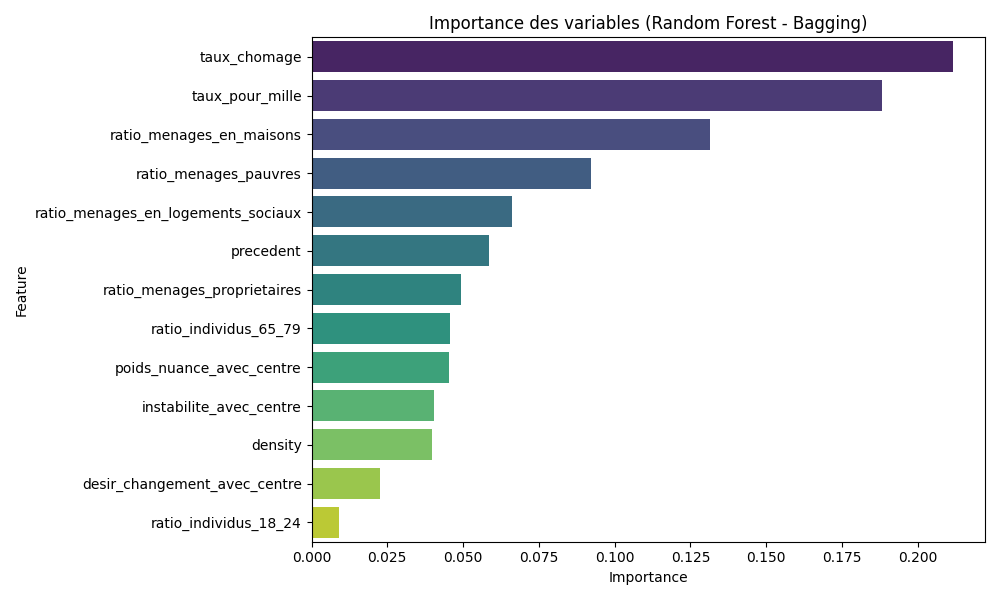
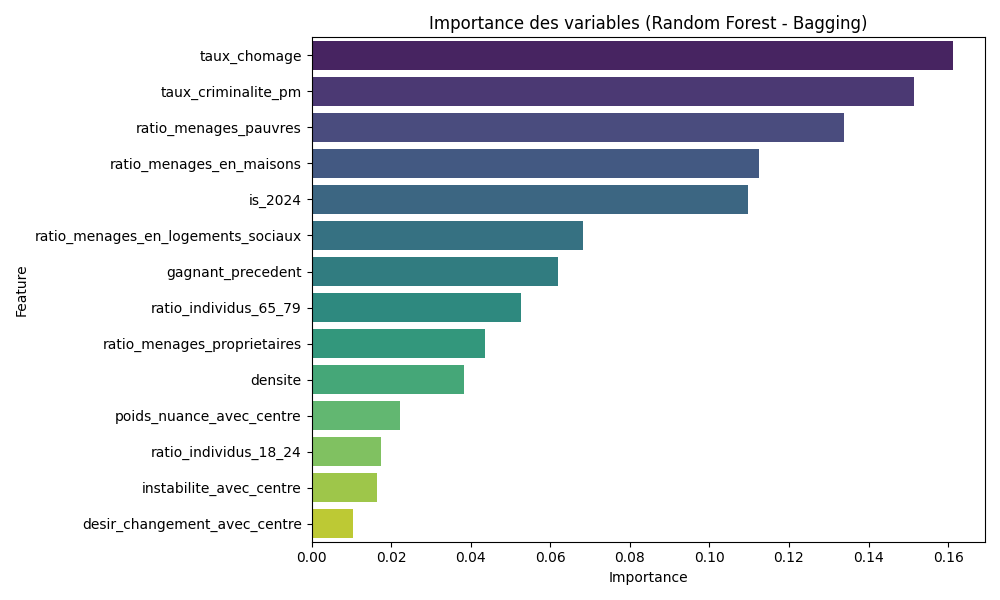
ajoute visualisation matrices de confusion

diff --git a/machine_learning/random_forest/encodage_avec_centre/bagging/previous_instability_criminality_unemployment_density_filosofi/previous_instability_criminality_unemployment_density_filosofi.py b/machine_learning/random_forest/encodage_avec_centre/bagging/previous_instability_criminality_unemployment_density_filosofi/previous_instability_criminality_unemployment_density_filosofi.py
@@ -13,8 +13,8 @@ from db_query.query import DatabaseQuery
 
 query = """
     SELECT 
-    encodage_avec_centre_gagnant as prediction, encodage_avec_centre_gagnant_precedent as precedent, criminality_per_cir.code_circonscription as code_circonscirption,
-    taux_pour_mille, taux_chomage, density, instabilite_avec_centre, poids_nuance_avec_centre, desir_changement_avec_centre, is_2024, 
+    encodage_avec_centre_gagnant as prediction, encodage_avec_centre_gagnant_precedent as gagnant_precedent, criminality_per_cir.code_circonscription as code_circonscirption,
+    taux_pour_mille as taux_criminalite_pm, taux_chomage, density as densite, instabilite_avec_centre, poids_nuance_avec_centre, desir_changement_avec_centre, is_2024, 
     ratio_menages_proprietaires, ratio_menages_en_maisons, ratio_menages_en_logements_sociaux, ratio_menages_pauvres, ratio_individus_18_24, ratio_individus_65_79  
     FROM legislative_per_cir
     INNER JOIN criminality_per_cir ON legislative_per_cir.annee = criminality_per_cir.annee AND legislative_per_cir.code_de_la_circonscription = criminality_per_cir.code_circonscription
@@ -30,7 +30,7 @@ df = pd.DataFrame(query_job)
 
 print(df.describe())
 
-X = df[['precedent', 'taux_pour_mille', 'taux_chomage', 'density',
+X = df[['gagnant_precedent', 'taux_criminalite_pm', 'taux_chomage', 'densite',
         'instabilite_avec_centre', 'poids_nuance_avec_centre', 'desir_changement_avec_centre','ratio_menages_proprietaires',
         'ratio_menages_en_maisons', 'ratio_menages_en_logements_sociaux', 'is_2024', 'ratio_menages_pauvres', 'ratio_individus_18_24', 'ratio_individus_65_79']]
 y = df.prediction

diff --git a/machine_learning/logistic_regression/encodage_avec_centre/benchmark_etalon/previous_result.py b/machine_learning/logistic_regression/encodage_avec_centre/benchmark_etalon/previous_result.py
@@ -45,7 +45,17 @@ clf.fit(X_train, y_train)
 y_pred = clf.predict(X_test)
 print(accuracy_score(y_test, y_pred))
 
-print(confusion_matrix(y_test, y_pred))
+cm = confusion_matrix(y_test, y_pred)
+
+print(cm)
+
+plt.figure(figsize=(8, 6))
+sns.heatmap(cm, annot=True, fmt='d', cmap='Blues', xticklabels=clf.classes_, yticklabels=clf.classes_)
+plt.xlabel('Predicted Labels')
+plt.ylabel('True Labels')
+plt.title('Matrice de confusion')
+plt.tight_layout()
+plt.savefig('confusion_matrix.png')
 
 print("Precision (pondérée) :", precision_score(y_test, y_pred, average='weighted', zero_division=1))
 print("Recall (pondéré) :", recall_score(y_test, y_pred, average='weighted', zero_division=1))

diff --git a/machine_learning/logistic_regression/encodage_avec_centre_et_extreme/benchmark_etalon/previous_result.py b/machine_learning/logistic_regression/encodage_avec_centre_et_extreme/benchmark_etalon/previous_result.py
@@ -35,4 +35,14 @@ clf.fit(X_train, y_train)
 y_pred = clf.predict(X_test)
 print(accuracy_score(y_test, y_pred))
 
-print(confusion_matrix(y_test, y_pred))
+cm = confusion_matrix(y_test, y_pred)
+
+print(cm)
+
+plt.figure(figsize=(8, 6))
+sns.heatmap(cm, annot=True, fmt='d', cmap='Blues', xticklabels=clf.classes_, yticklabels=clf.classes_)
+plt.xlabel('Predicted Labels')
+plt.ylabel('True Labels')
+plt.title('Matrice de confusion')
+plt.tight_layout()
+plt.savefig('confusion_matrix.png')

diff --git a/machine_learning/logistic_regression/encodage_sans_centre/benchmark_etalon/previous_result.py b/machine_learning/logistic_regression/encodage_sans_centre/benchmark_etalon/previous_result.py
@@ -34,4 +34,14 @@ clf.fit(X_train, y_train)
 y_pred = clf.predict(X_test)
 print(accuracy_score(y_test, y_pred))
 
-print(confusion_matrix(y_test, y_pred))
+cm = confusion_matrix(y_test, y_pred)
+
+print(cm)
+
+plt.figure(figsize=(8, 6))
+sns.heatmap(cm, annot=True, fmt='d', cmap='Blues', xticklabels=clf.classes_, yticklabels=clf.classes_)
+plt.xlabel('Predicted Labels')
+plt.ylabel('True Labels')
+plt.title('Matrice de confusion')
+plt.tight_layout()
+plt.savefig('confusion_matrix.png')
